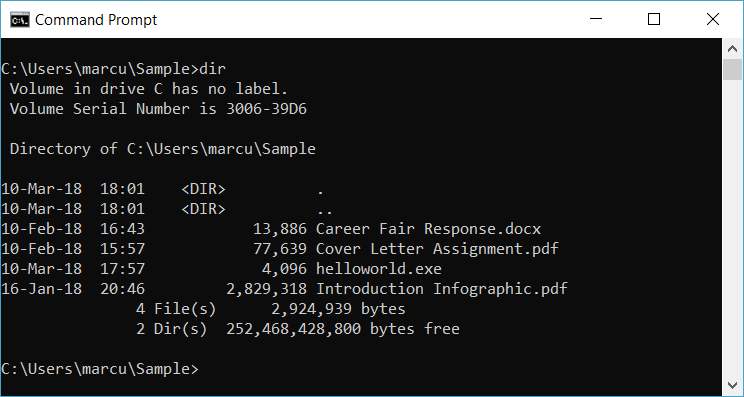
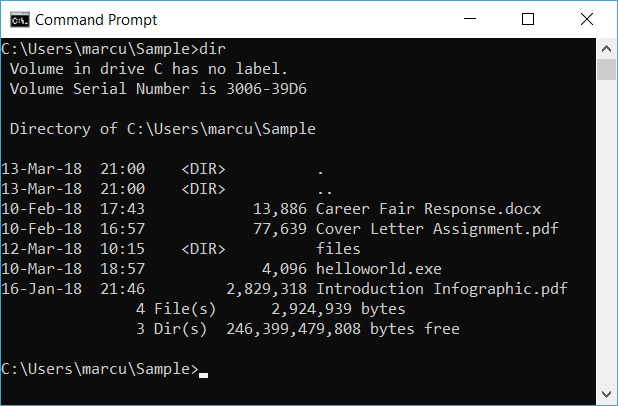
Update Guide with more Pictures

diff --git a/articles/command-line.html b/articles/command-line.html
@@ -69,7 +69,7 @@
             <article class="content wrap" id="_content" data-uid="">
 <h1 id="how-to-use-the-command-prompt-in-windows">How to Use the Command Prompt in Windows</h1>
 
-<p><div style="font-size:12px"><img src="../images/calendar.svg" height="14px"> 03/10/2018 • <img src="../images/clock.svg" height="14px"> 5 minutes to read • Marcus Taylor Hallett</div>
+<p><div style="font-size:12px"><img src="../images/calendar.svg" height="14px"> 03/14/2018 • <img src="../images/clock.svg" height="14px"> 4 minutes to read • Marcus Taylor Hallett</div>
 <br></p>
 <p>The Command Prompt, or Windows Command Processor, is a command-line interpreter (CLI) available in most editions of the Microsoft Windows operating system. It is used to execute commands issued by a user. It can be used to automate tasks by means of scripts and batch files and perform some advanced administrative functions.</p>
 <p>This article will guide you through six common tasks using the Command Prompt.</p>
@@ -78,8 +78,10 @@
 <li>Computer with Microsoft Windows 95 or later operating system</li>
 </ul>
 <h2 id="open-the-command-prompt">Open the Command Prompt</h2>
-<p>Press <img src="../images/windowskeyplusrkey.svg" height="16px"> to open the Run dialog. Enter &quot;cmd&quot; in the Run dialog. Press &quot;OK&quot;. The command prompt will now appear on your screen.</p>
+<p>Press <img src="../images/windowskeyplusrkey.svg" height="16px"> to open the Run dialog. Enter &quot;cmd&quot; in the Run dialog. Click &quot;OK&quot; using your mouse.</p>
 <p><img src="../images/run.png" height="240px"></p>
+<p> The command prompt will now appear on your screen.</p>
+<p> <img src="../images/opencmd.png"></p>
 <h2 id="list-contents-of-a-directory">List Contents of a Directory</h2>
 <p>Use the <code>dir</code> command to list the contents (such as files and subdirectories) of the current working directory. A listing of all files and subdirectories within the current working directory will be written to the Command Prompt.</p>
 <p><img src="../images/dir.png"></p>
@@ -90,7 +92,8 @@
 <p>The <code>cd</code> command takes the following form: <code>cd &lt;target directory&gt;</code></p>
 <p>The working directory will then change to the target directory.</p>
 <p>For example, enter <code>cd files</code> to enter a subdirectory called &quot;files&quot;.</p>
-<p>Use the <code>cd ..</code> command to go up one directory.</p>
+<p><img src="../images/cd.png"></p>
+<p>Use the <code>cd ..</code> command to go up one directory in the directory hierarchy.</p>
 <div class="TIP"><h5>Tip</h5><p>You should surround the directory name with quotation marks if the name includes spaces.</p>
 </div>
 <h2 id="create-a-directory">Create a Directory</h2>
@@ -99,16 +102,19 @@
 <p>For example, enter <code>md recipes</code> to create a directory called &quot;recipes&quot;.</p>
 <h2 id="remove-a-directory">Remove a Directory</h2>
 <p>Use the <code>rd</code> command to remove a directory.</p>
-<p>The <code>rd</code> command takes the following form: <code>rd &lt;directory name</code></p>
+<p>The <code>rd</code> command takes the following form: <code>rd &lt;directory name&gt;</code></p>
+<p>For example, enter <code>rd recipes</code> to remove a directory called &quot;recipes&quot;.</p>
+<p><img src="../images/mdrd.png"></p>
 <div class="WARNING"><h5>Warning</h5><p>A directory must be empty to be removed.</p>
 </div>
 <h2 id="delete-a-file">Delete a File</h2>
 <p>Use the <code>del</code> command to delete a file.</p>
 <p>The <code>del</code> command takes the following form: <code>del &lt;target file&gt;</code></p>
+<p><img src="../images/del.png"></p>
 <h2 id="run-an-application-or-execute-command">Run an Application or Execute Command</h2>
 <p>Enter the name of the desired application or command to execute the program or command.</p>
-<p>For example, enter &quot;helloworld.exe&quot; or &quot;helloworld&quot; to execute program called &quot;helloworld.exe&quot;. To execute the version command (to display the operating system version) enter <code>ver</code>.</p>
-<p><img src="../images/helloworld.png"></p>
+<p>For example, enter <code>helloworld.exe</code> or <code>helloworld</code> to execute program called &quot;helloworld.exe&quot;. To execute the version command (to display the operating system version) enter <code>ver</code>.</p>
+<p><img src="../images/commands.png"></p>
 </article>
           </div>
           
